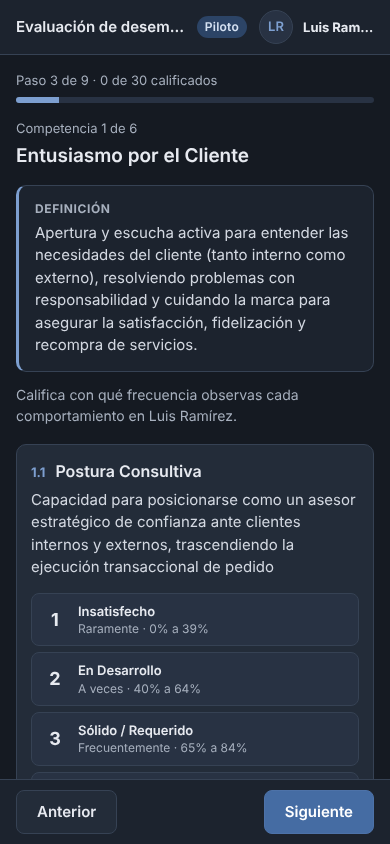
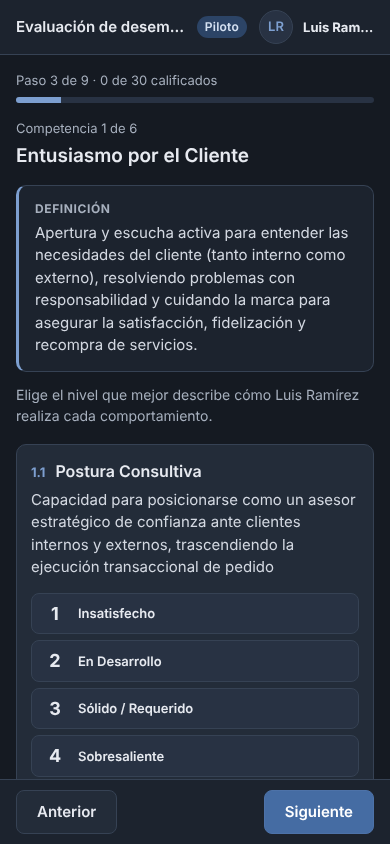
Mostrar solo la etiqueta de cada nivel de la escala
Claude-Session: https://claude.ai/code/session_017yfDnRQVKTVcvHrUiXwaJd

diff --git a/evaluacion-piloto/Index.html b/evaluacion-piloto/Index.html
@@ -118,11 +118,8 @@
   .opt:hover .opt-box { border-color: #50607a; }
   .opt-n { font-size: 18px; font-weight: 700; line-height: 1.2; }
   .opt-l { font-size: 13px; font-weight: 600; line-height: 1.25; }
-  .opt-f { font-size: 12px; color: var(--muted); line-height: 1.3; }
   .opt-txt { display: flex; flex-direction: column; gap: 2px; }
-  .opt-f > span { display: block; }
   .opt input:checked + .opt-box { background: var(--accent-bg); border-color: var(--accent); }
-  .opt input:checked + .opt-box .opt-f { color: #c9d6ea; }
   .opt input:focus-visible + .opt-box { outline: 2px solid var(--accent); outline-offset: 2px; }
 
   .extra { margin-top: 8px; display: inline-flex; }
@@ -204,8 +201,6 @@
       flex-direction: row; align-items: center; text-align: left; gap: 12px; padding: 9px 12px;
     }
     .escala .opt-n { width: 22px; text-align: center; }
-    .escala .opt-f > span { display: inline; }
-    .escala .opt-rg::before { content: " · "; }
     .card { padding: 14px; }
     .encabezado h2 { font-size: 19px; }
     .brand h1 { font-size: 15px; }
@@ -323,7 +318,7 @@ function opcion(nombre, valor, contenido, marcado, claseExtra) {
 
 function vistaInicio() {
   const filas = MODELO.escala.map(function (e) {
-    return '<tr><td>' + e.valor + '</td><td>' + esc(e.etiqueta) + '</td><td>' + esc(e.frecuencia) + '</td><td>' + esc(e.rango) + '</td></tr>';
+    return '<tr><td>' + e.valor + '</td><td>' + esc(e.etiqueta) + '</td></tr>';
   }).join('');
   return '<div class="encabezado"><p class="kicker">Cornerstone Perú</p><h2>Prueba piloto de la evaluación de desempeño</h2></div>' +
     '<div class="card intro">' +
@@ -333,11 +328,11 @@ function vistaInicio() {
         '<li><b>No tiene consecuencias.</b> Nadie será evaluado con estas respuestas. Responde con normalidad, como si fuera la evaluación real.</li>' +
         '<li><b>Tiempo aproximado.</b> Entre 15 y 20 minutos. Tu avance se guarda en este dispositivo si cierras la página.</li>' +
         '<li><b>Qué vas a calificar.</b> 30 comportamientos agrupados en 6 competencias. Al final de cada competencia puedes dejar un ejemplo concreto.</li>' +
-        '<li><b>Cómo usar la escala.</b> En cada comportamiento elige con qué frecuencia lo observas, en ti o en tu colaborador. La escala aparece siempre junto a cada comportamiento, así que no necesitas memorizarla.</li>' +
+        '<li><b>Cómo usar la escala.</b> En cada comportamiento elige el nivel que mejor describe tu desempeño o el de tu colaborador. La escala aparece siempre junto a cada comportamiento, así que no necesitas memorizarla.</li>' +
       '</ul>' +
     '</div>' +
     '<div class="card"><h3 style="font-size:16px">Escala de calificación</h3>' +
-      '<table class="tabla"><thead><tr><th>Nivel</th><th>Etiqueta</th><th>Frecuencia</th><th>Rango</th></tr></thead><tbody>' + filas + '</tbody></table>' +
+      '<table class="tabla"><thead><tr><th>Nivel</th><th>Etiqueta</th></tr></thead><tbody>' + filas + '</tbody></table>' +
       '<p class="guia">Algunos comportamientos tienen una opción adicional. Usa “No tuve oportunidad de observarlo” solo si la situación no se presentó. En “Empoderamiento y Liderazgo” elige “No aplica” si no hay equipo a cargo.</p>' +
     '</div>' +
     '<div class="card"><p>Al final hay 4 preguntas breves sobre tu experiencia. Son las más importantes del piloto, así que te pedimos responderlas con detalle.</p></div>';
@@ -370,14 +365,13 @@ function vistaCompetencia(c, n) {
   const d = estado.datos;
   const yo = d.rol !== JEFE;
   const guia = yo
-    ? 'Califica con qué frecuencia realizas cada comportamiento.'
-    : 'Califica con qué frecuencia observas cada comportamiento en ' + esc(d.evaluado || 'tu colaborador') + '.';
+    ? 'Elige el nivel que mejor describe cómo realizas cada comportamiento.'
+    : 'Elige el nivel que mejor describe cómo ' + esc(d.evaluado || 'tu colaborador') + ' realiza cada comportamiento.';
   const items = c.comportamientos.map(function (b, j) {
     const v = estado.notas[b.id];
     const escala = MODELO.escala.map(function (e) {
       return opcion(b.id, e.valor,
-        '<span class="opt-n">' + e.valor + '</span><span class="opt-txt"><span class="opt-l">' + esc(e.etiqueta) + '</span>' +
-        '<span class="opt-f"><span>' + esc(e.frecuencia) + '</span><span class="opt-rg">' + esc(e.rango) + '</span></span></span>', String(v) === String(e.valor));
+        '<span class="opt-n">' + e.valor + '</span><span class="opt-txt"><span class="opt-l">' + esc(e.etiqueta) + '</span></span>', String(v) === String(e.valor));
     }).join('');
     const extra = b.extra
       ? '<div>' + opcion(b.id, b.extra, '<span class="marca"></span>' + esc(b.extra), v === b.extra, 'extra') + '</div>' +

diff --git a/evaluacion-piloto/vista-previa.html b/evaluacion-piloto/vista-previa.html
@@ -118,11 +118,8 @@
   .opt:hover .opt-box { border-color: #50607a; }
   .opt-n { font-size: 18px; font-weight: 700; line-height: 1.2; }
   .opt-l { font-size: 13px; font-weight: 600; line-height: 1.25; }
-  .opt-f { font-size: 12px; color: var(--muted); line-height: 1.3; }
   .opt-txt { display: flex; flex-direction: column; gap: 2px; }
-  .opt-f > span { display: block; }
   .opt input:checked + .opt-box { background: var(--accent-bg); border-color: var(--accent); }
-  .opt input:checked + .opt-box .opt-f { color: #c9d6ea; }
   .opt input:focus-visible + .opt-box { outline: 2px solid var(--accent); outline-offset: 2px; }
 
   .extra { margin-top: 8px; display: inline-flex; }
@@ -204,8 +201,6 @@
       flex-direction: row; align-items: center; text-align: left; gap: 12px; padding: 9px 12px;
     }
     .escala .opt-n { width: 22px; text-align: center; }
-    .escala .opt-f > span { display: inline; }
-    .escala .opt-rg::before { content: " · "; }
     .card { padding: 14px; }
     .encabezado h2 { font-size: 19px; }
     .brand h1 { font-size: 15px; }
@@ -323,7 +318,7 @@ function opcion(nombre, valor, contenido, marcado, claseExtra) {
 
 function vistaInicio() {
   const filas = MODELO.escala.map(function (e) {
-    return '<tr><td>' + e.valor + '</td><td>' + esc(e.etiqueta) + '</td><td>' + esc(e.frecuencia) + '</td><td>' + esc(e.rango) + '</td></tr>';
+    return '<tr><td>' + e.valor + '</td><td>' + esc(e.etiqueta) + '</td></tr>';
   }).join('');
   return '<div class="encabezado"><p class="kicker">Cornerstone Perú</p><h2>Prueba piloto de la evaluación de desempeño</h2></div>' +
     '<div class="card intro">' +
@@ -333,11 +328,11 @@ function vistaInicio() {
         '<li><b>No tiene consecuencias.</b> Nadie será evaluado con estas respuestas. Responde con normalidad, como si fuera la evaluación real.</li>' +
         '<li><b>Tiempo aproximado.</b> Entre 15 y 20 minutos. Tu avance se guarda en este dispositivo si cierras la página.</li>' +
         '<li><b>Qué vas a calificar.</b> 30 comportamientos agrupados en 6 competencias. Al final de cada competencia puedes dejar un ejemplo concreto.</li>' +
-        '<li><b>Cómo usar la escala.</b> En cada comportamiento elige con qué frecuencia lo observas, en ti o en tu colaborador. La escala aparece siempre junto a cada comportamiento, así que no necesitas memorizarla.</li>' +
+        '<li><b>Cómo usar la escala.</b> En cada comportamiento elige el nivel que mejor describe tu desempeño o el de tu colaborador. La escala aparece siempre junto a cada comportamiento, así que no necesitas memorizarla.</li>' +
       '</ul>' +
     '</div>' +
     '<div class="card"><h3 style="font-size:16px">Escala de calificación</h3>' +
-      '<table class="tabla"><thead><tr><th>Nivel</th><th>Etiqueta</th><th>Frecuencia</th><th>Rango</th></tr></thead><tbody>' + filas + '</tbody></table>' +
+      '<table class="tabla"><thead><tr><th>Nivel</th><th>Etiqueta</th></tr></thead><tbody>' + filas + '</tbody></table>' +
       '<p class="guia">Algunos comportamientos tienen una opción adicional. Usa “No tuve oportunidad de observarlo” solo si la situación no se presentó. En “Empoderamiento y Liderazgo” elige “No aplica” si no hay equipo a cargo.</p>' +
     '</div>' +
     '<div class="card"><p>Al final hay 4 preguntas breves sobre tu experiencia. Son las más importantes del piloto, así que te pedimos responderlas con detalle.</p></div>';
@@ -370,14 +365,13 @@ function vistaCompetencia(c, n) {
   const d = estado.datos;
   const yo = d.rol !== JEFE;
   const guia = yo
-    ? 'Califica con qué frecuencia realizas cada comportamiento.'
-    : 'Califica con qué frecuencia observas cada comportamiento en ' + esc(d.evaluado || 'tu colaborador') + '.';
+    ? 'Elige el nivel que mejor describe cómo realizas cada comportamiento.'
+    : 'Elige el nivel que mejor describe cómo ' + esc(d.evaluado || 'tu colaborador') + ' realiza cada comportamiento.';
   const items = c.comportamientos.map(function (b, j) {
     const v = estado.notas[b.id];
     const escala = MODELO.escala.map(function (e) {
       return opcion(b.id, e.valor,
-        '<span class="opt-n">' + e.valor + '</span><span class="opt-txt"><span class="opt-l">' + esc(e.etiqueta) + '</span>' +
-        '<span class="opt-f"><span>' + esc(e.frecuencia) + '</span><span class="opt-rg">' + esc(e.rango) + '</span></span></span>', String(v) === String(e.valor));
+        '<span class="opt-n">' + e.valor + '</span><span class="opt-txt"><span class="opt-l">' + esc(e.etiqueta) + '</span></span>', String(v) === String(e.valor));
     }).join('');
     const extra = b.extra
       ? '<div>' + opcion(b.id, b.extra, '<span class="marca"></span>' + esc(b.extra), v === b.extra, 'extra') + '</div>' +
